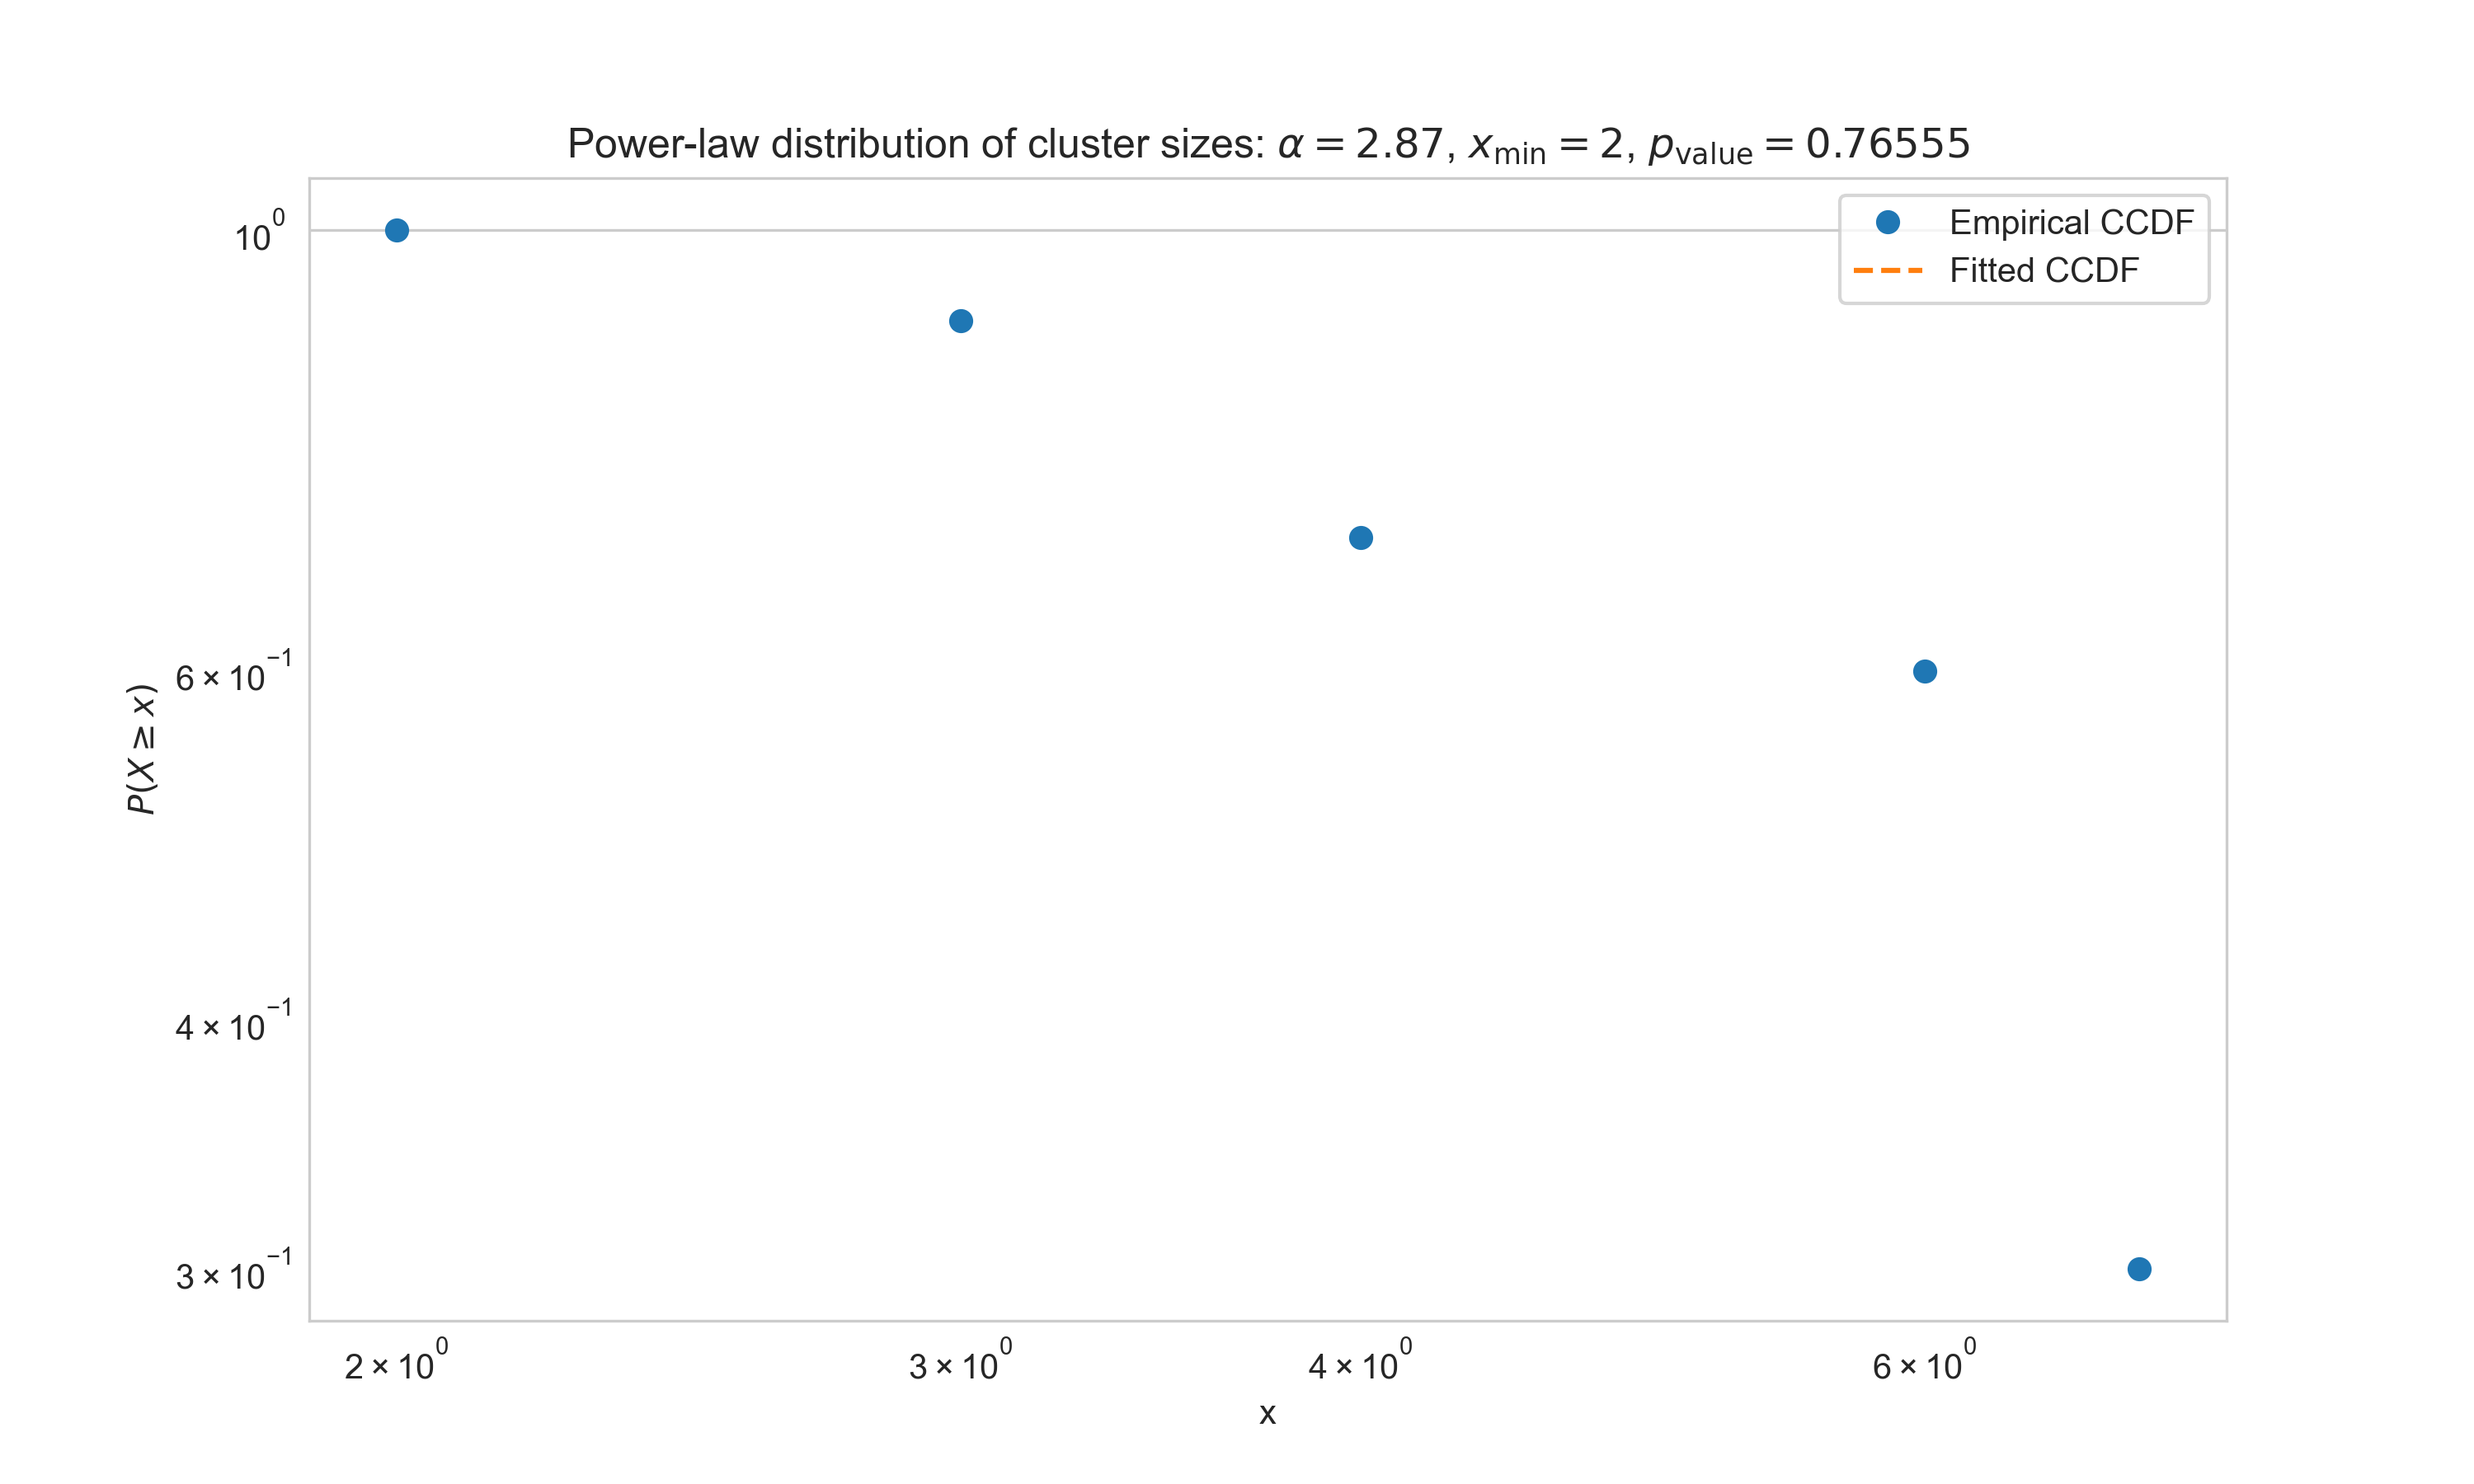
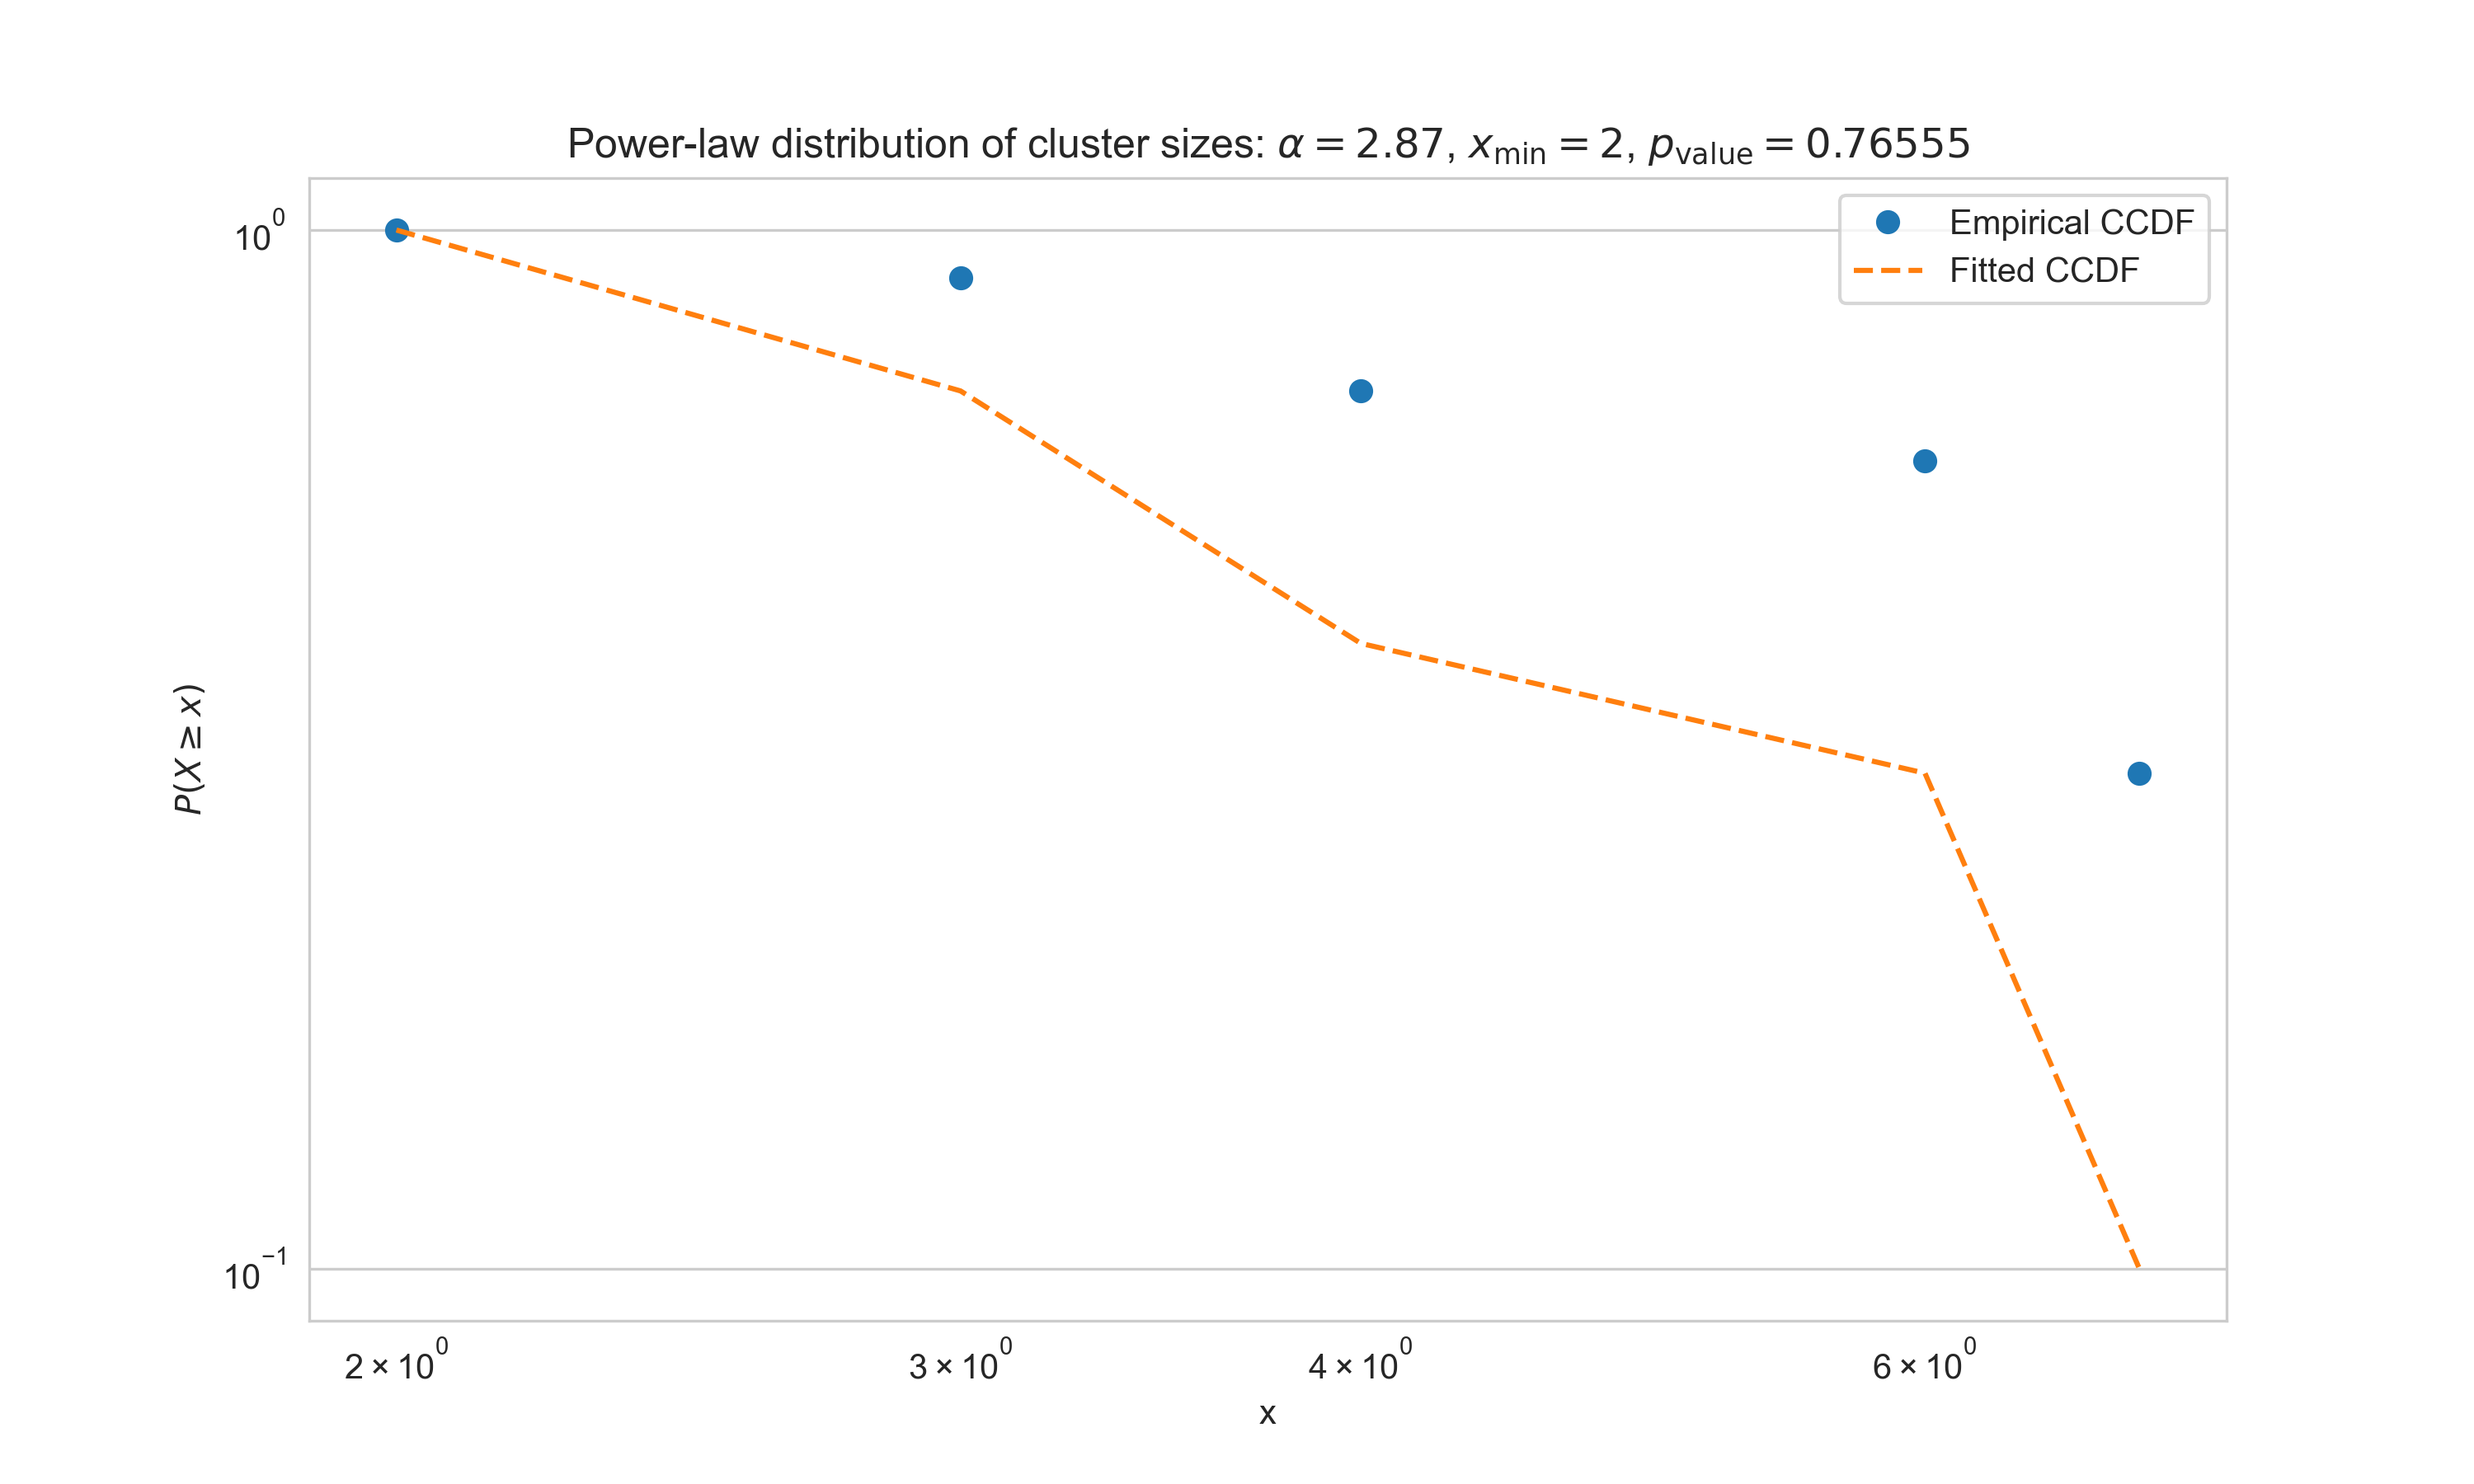
adding plots

diff --git a/src/clustering/base.py b/src/clustering/base.py
@@ -379,7 +379,8 @@ class BaseClustering(ABC):
         icdf = cdf[::-1]
 
         # Define the ICDF function for the power-law distribution
-        fitted_values, fitted_ccdf = fit.ccdf(data=above_xmin)
+        above_xmin = values[values >= x_min]   
+        fitted_values, fitted_ccdf = fit.ccdf()
 
         plt.figure(figsize=(10, 6))
 
